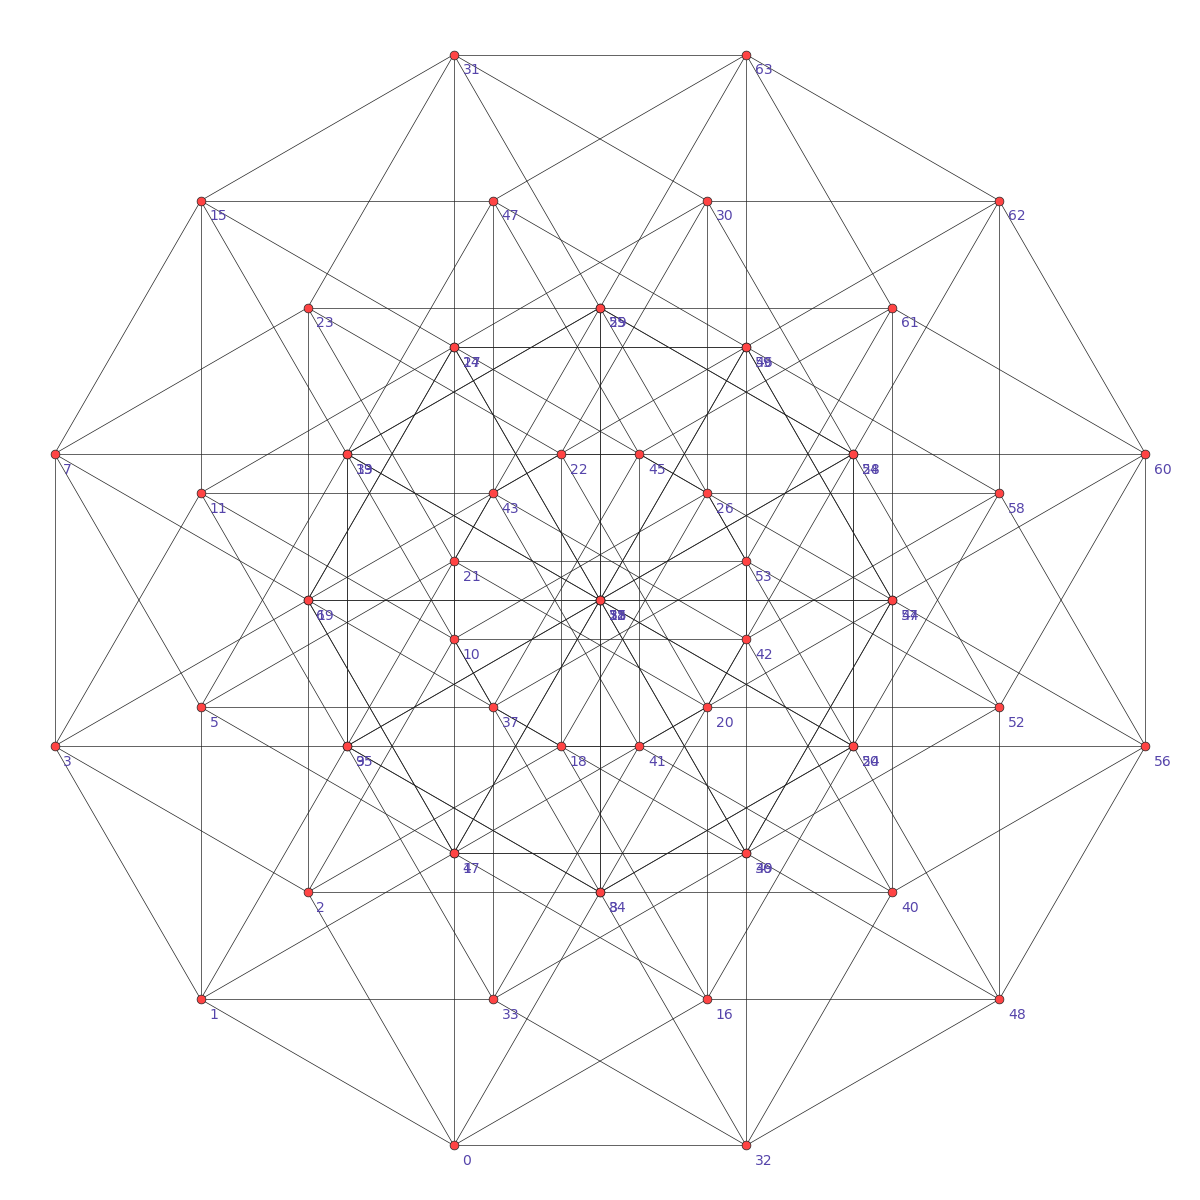
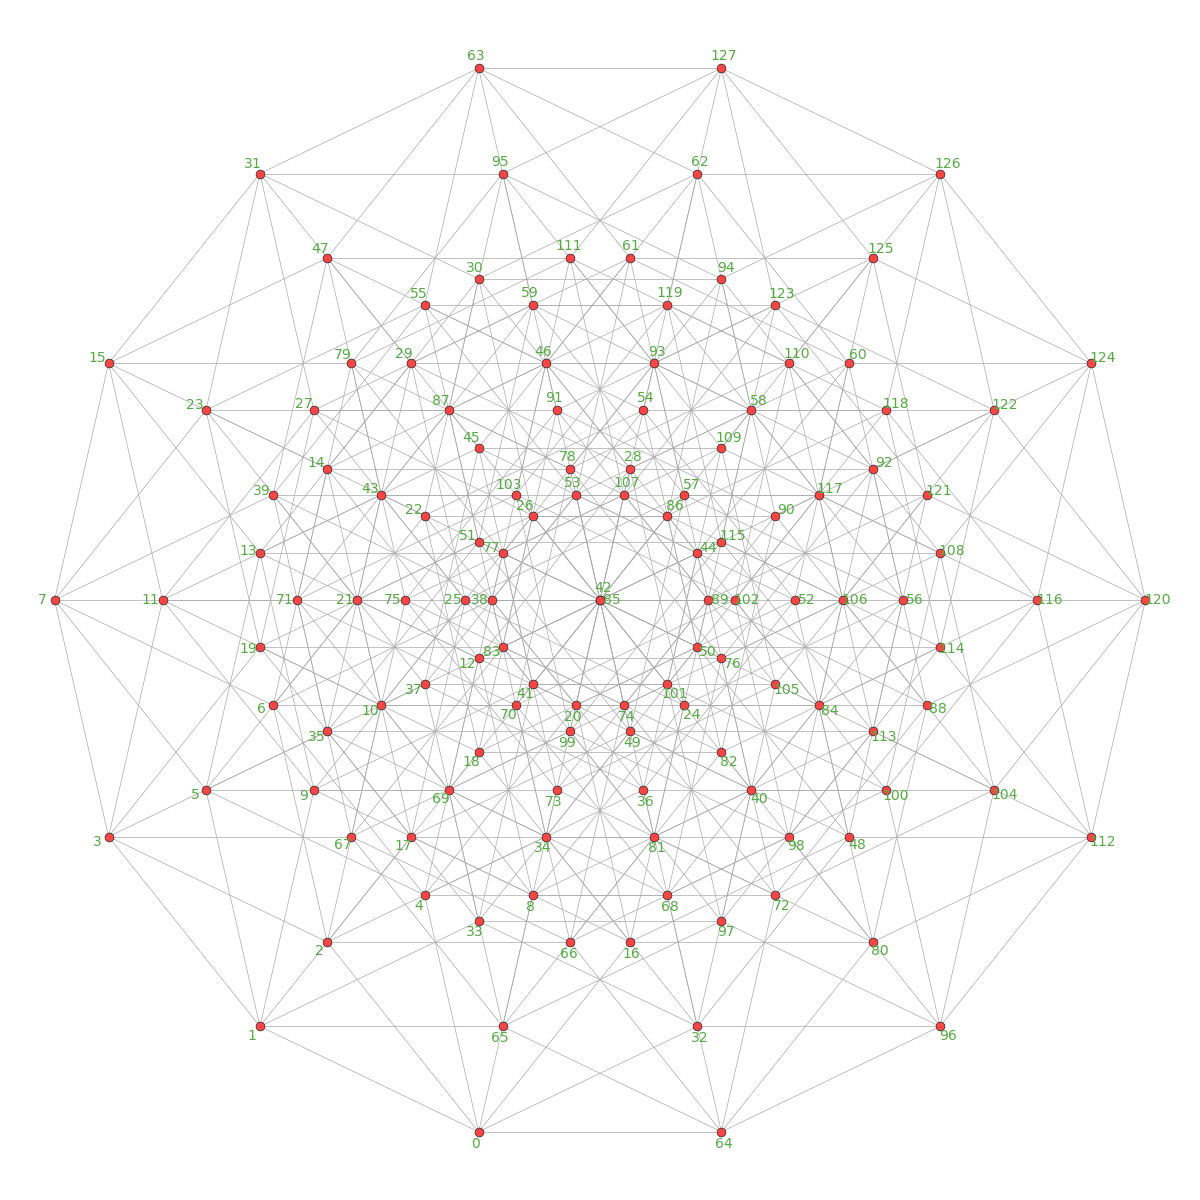
test162: Tweak aesthetics

diff --git a/test162-hypercube_embedding/main.py b/test162-hypercube_embedding/main.py
@@ -3,7 +3,7 @@ import numpy as np
 
 
 def main():
-    dimension = 6
+    dimension = 7
 
     angles = np.pi * np.arange(dimension) / dimension
     basis = np.transpose([np.cos(angles), np.sin(angles)])
@@ -50,7 +50,8 @@ def hypercube(dimension):
 
 
 def draw_graph(ax, edges, points, labels):
-    label_margin = 0.03
+    label_margin = 0.05
+    centroid = points.mean(0)
 
     ax.scatter(
         points[:, 0],
@@ -63,15 +64,18 @@ def draw_graph(ax, edges, points, labels):
     )
 
     for point, label in zip(points, labels):
+        outer = point - centroid
+        outer = outer / np.linalg.norm(outer)
+
         ax.text(
-            point[0] + label_margin,
-            point[1] - label_margin,
+            point[0] + outer[0] * label_margin,
+            point[1] + outer[1] * label_margin,
             label,
-            ha="left",
-            va="top",
+            ha="center",
+            va="center",
             fontsize=10,
-            color="#54a",
-            zorder=2,
+            color="#5a4",
+            zorder=3,
         )
 
     for i, j in edges:
@@ -79,7 +83,7 @@ def draw_graph(ax, edges, points, labels):
             [points[i, 0], points[j, 0]],
             [points[i, 1], points[j, 1]],
             lw=0.5,
-            color="#222",
+            color="#aaa",
             zorder=1,
         )
 

diff --git a/test162-hypercube_embedding/README.md b/test162-hypercube_embedding/README.md
@@ -2,4 +2,4 @@
 
 OK, I found the basis.
 
-![Petrie projection of the 6-cube](output.png)
+![Petrie projection of the 7-cube](output.png)
